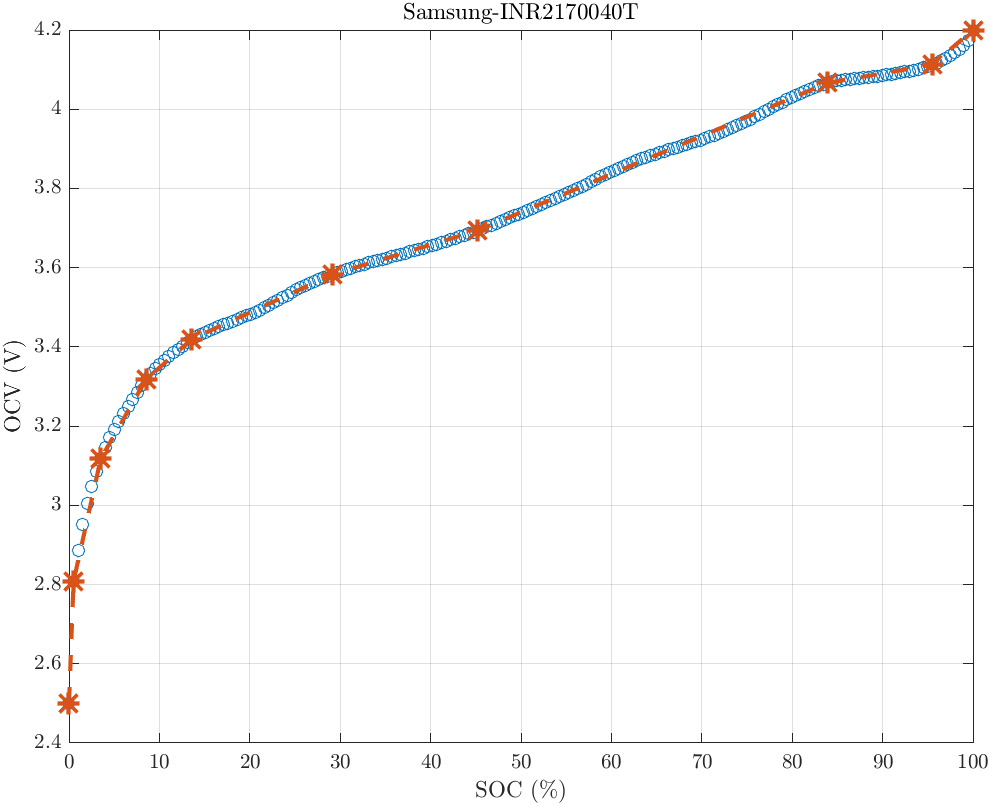
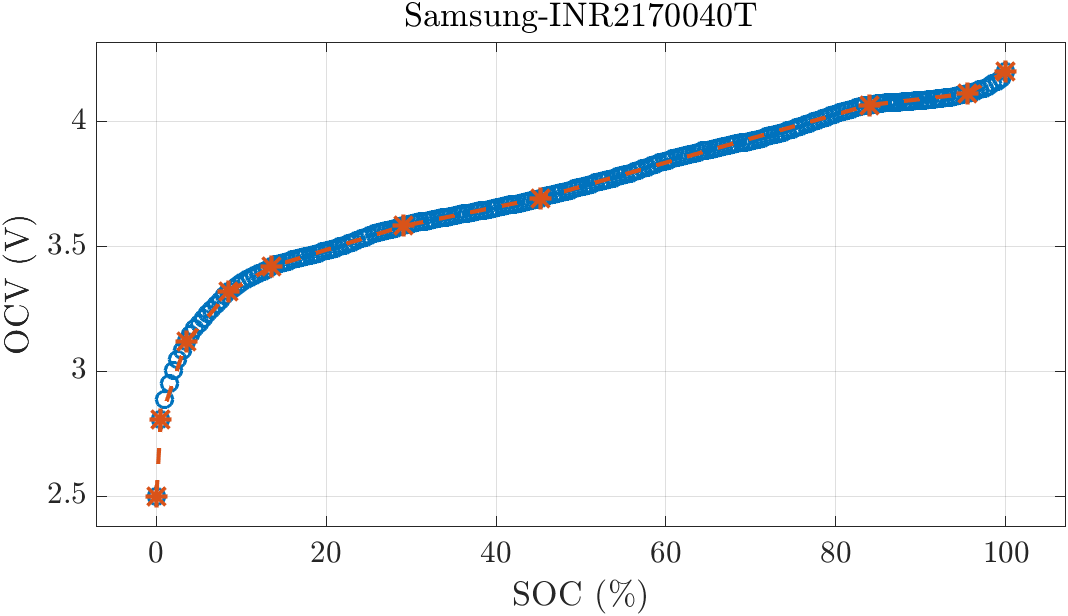
Updated plot style.

diff --git a/Demo.m b/Demo.m
@@ -1,15 +1,12 @@
-clc; clear; close all;
-set(groot,'defaultTextInterpreter','latex');
-set(groot,'defaultAxesTickLabelInterpreter','latex');
-set(groot,'defaultLegendInterpreter','latex');
-
+run('Figures/init_plot.m');
 %%%%%%%%%%%%%%%%%%%%%%%%%%%%%%%%%%%%%%%%%%%%%%%%%%%%%%%%%%%%%%%%%%%%%%%%%%%
-file_name = 'Samsung-INR2170040T';
+file_name = 'Molicel-INR21700P42A';
 %%%%%%%%%%%%%%%%%%%%%%%%%%%%%%%%%%%%%%%%%%%%%%%%%%%%%%%%%%%%%%%%%%%%%%%%%%%
 data    = load(strcat('Data/',file_name,'.mat')); 
 [xm,ym] = dynamicProg(data.xn,data.yn,10); 
 %%%%%%%%%%%%%%%%%%%%%%%%%%%%%%%%%%%%%%%%%%%%%%%%%%%%%%%%%%%%%%%%%%%%%%%%%%%
-f=figure; hold on; box on; grid on; xlabel('SOC (\%)'); ylabel('OCV (V)'); 
+f=figure; hold on; box on; grid on; axis('padded')
+xlabel('SOC (\%)'); ylabel('OCV (V)'); 
 plot(data.xn*100,data.yn,'o')
 plot(xm*100,ym,'*--',LineWidth=2,MarkerSize=10)
 title(file_name); exportgraphics(f,strcat('Figures/',file_name,'.png'))
